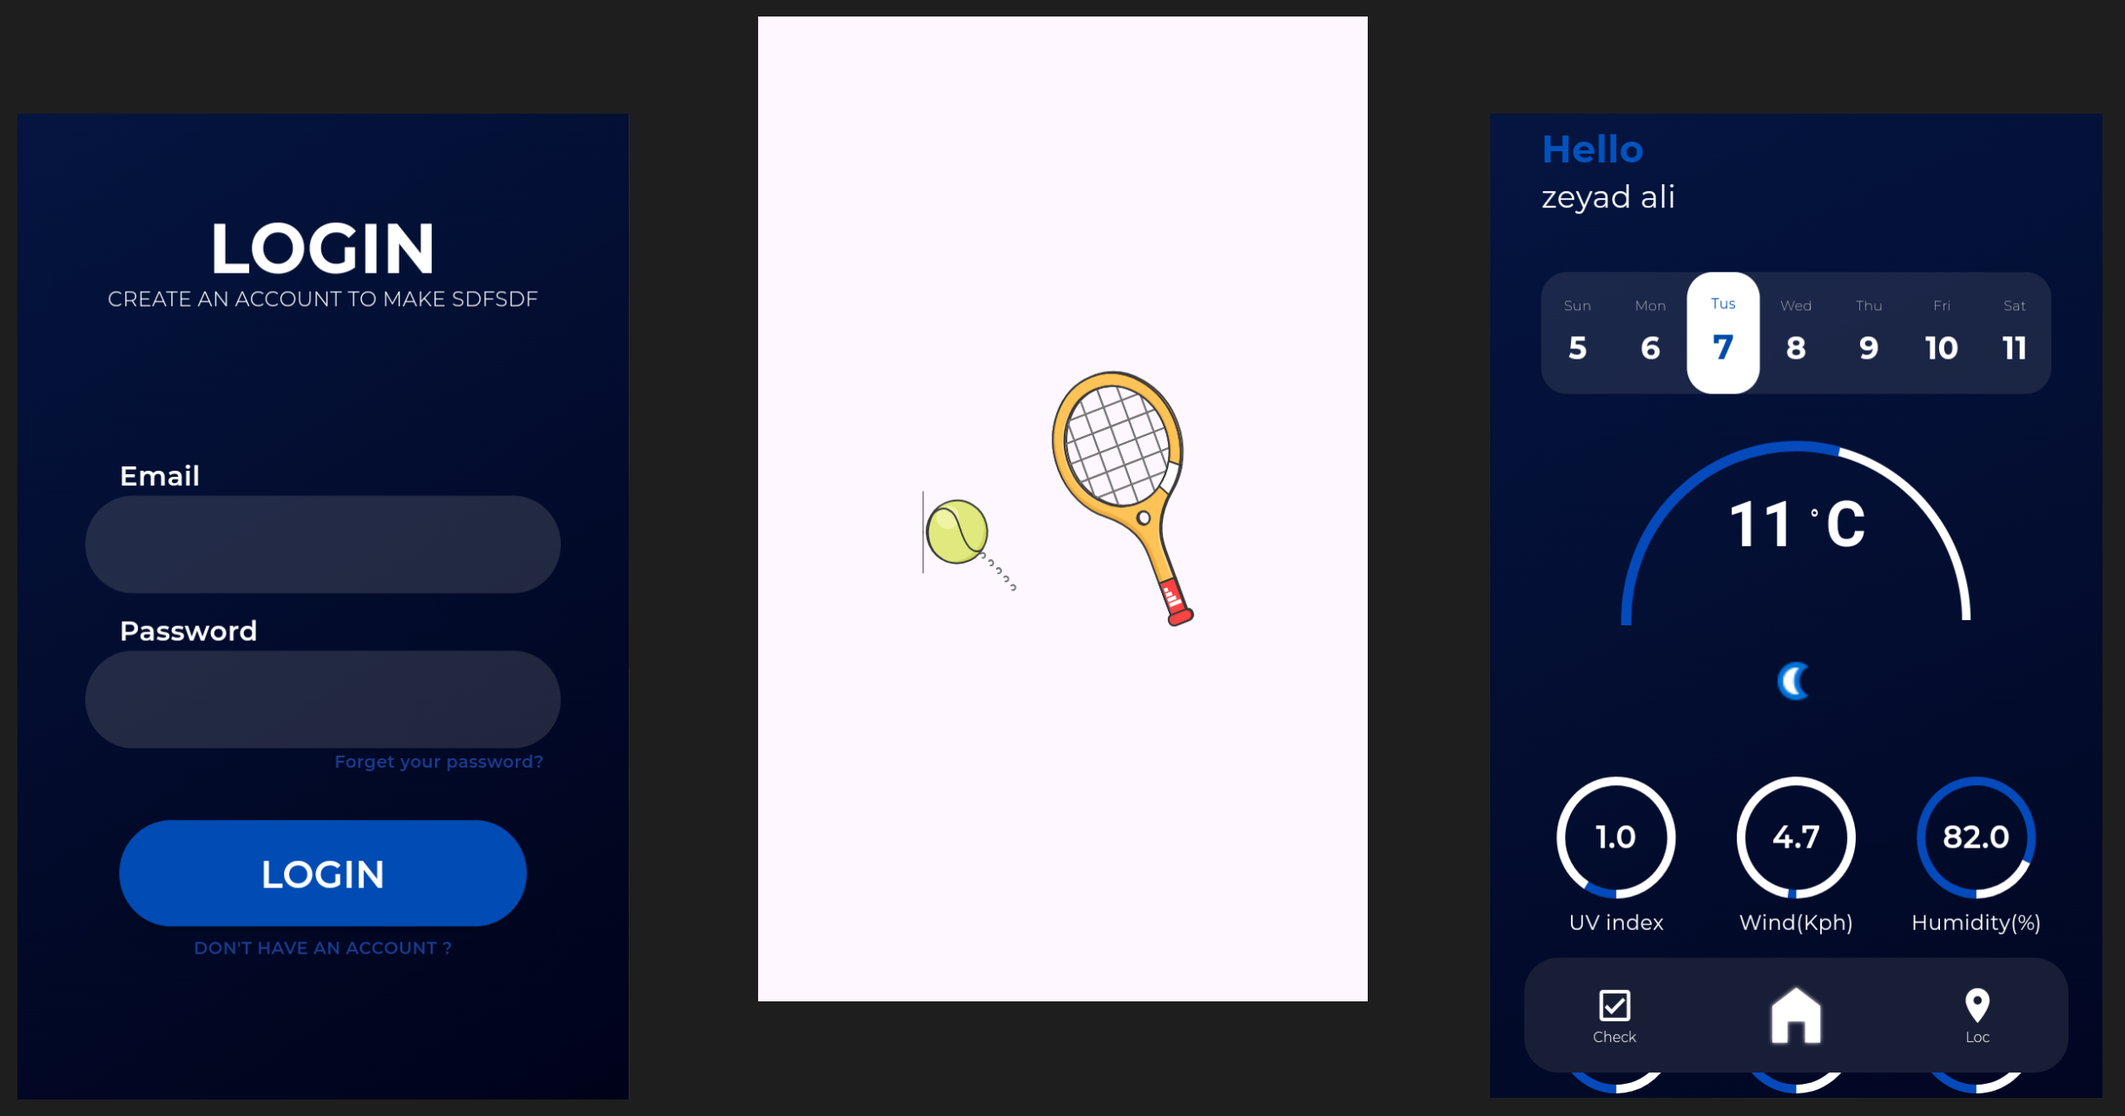
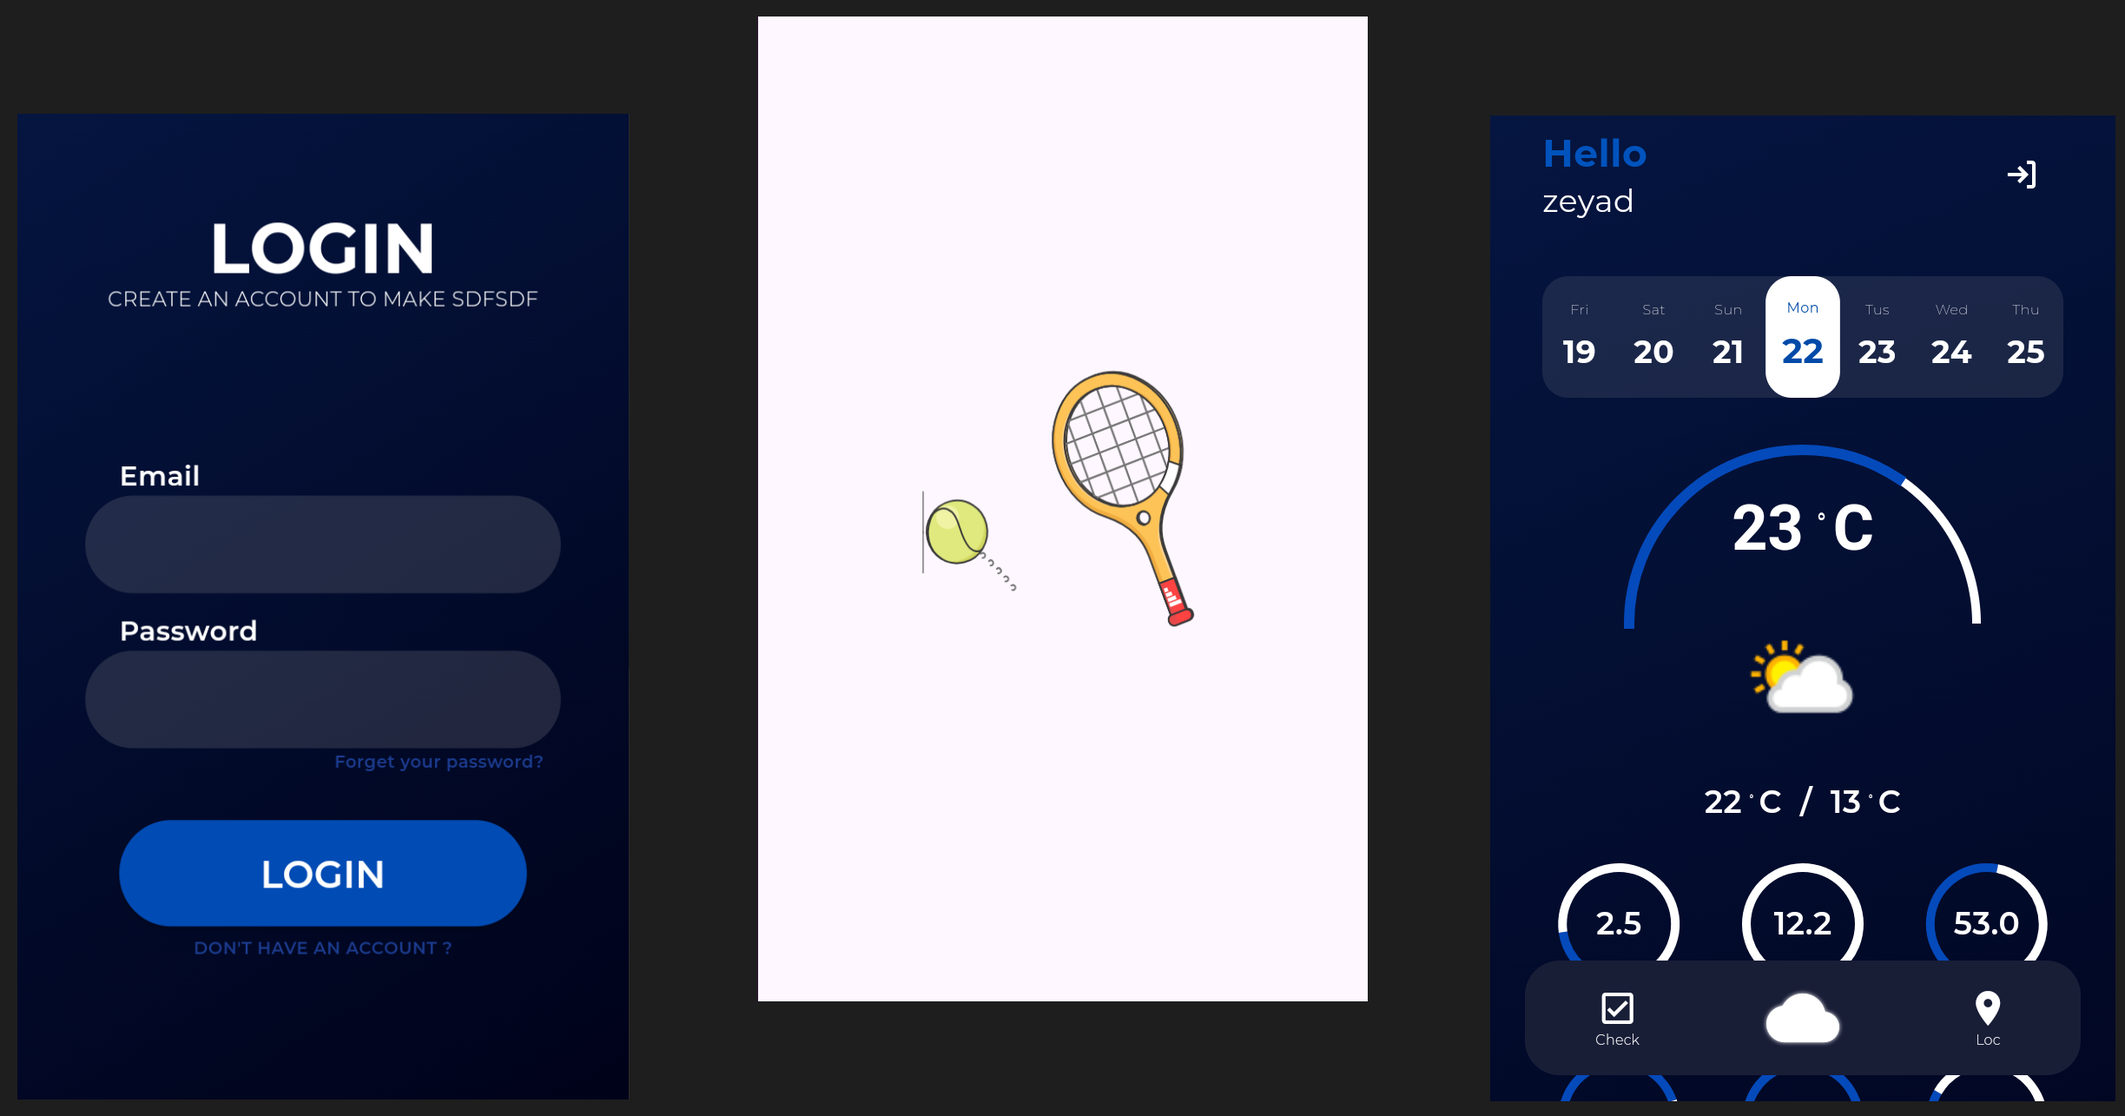
add google maps to tennis app

diff --git a/lib/utils/projects_manager.dart b/lib/utils/projects_manager.dart
@@ -8,53 +8,104 @@ import 'package:zeyad_ali_portfolio/utils/assets.dart';
 
 final class ProjectsManager {
   static Map<ToolType, ToolModel> allTools = {
-    ToolType.flutter: const ToolModel(text: 'Flutter', url: 'https://flutter.dev/'),
+    ToolType.flutter:
+        const ToolModel(text: 'Flutter', url: 'https://flutter.dev/'),
     ToolType.dart: const ToolModel(text: 'Dart', url: 'https://dart.dev/'),
-    ToolType.lottie: const ToolModel(text: 'Lottie Animations', url: 'https://lottiefiles.com/'),
+    ToolType.lottie: const ToolModel(
+        text: 'Lottie Animations', url: 'https://lottiefiles.com/'),
     ToolType.animations: const ToolModel(text: 'Animations'),
-    ToolType.cubit: const ToolModel(text: 'Cubit', url: 'https://pub.dev/packages/flutter_bloc'),
-    ToolType.bloc: const ToolModel(text: 'Bloc', url: 'https://pub.dev/packages/flutter_bloc'),
-    ToolType.getX: const ToolModel(text: 'GetX', url: 'https://pub.dev/packages/get'),
-    ToolType.provider: const ToolModel(text: 'Provider', url: 'https://pub.dev/packages/provider'),
-    ToolType.riverpod: const ToolModel(text: 'Riverpod', url: 'https://pub.dev/packages/riverpod'),
+    ToolType.cubit: const ToolModel(
+        text: 'Cubit', url: 'https://pub.dev/packages/flutter_bloc'),
+    ToolType.bloc: const ToolModel(
+        text: 'Bloc', url: 'https://pub.dev/packages/flutter_bloc'),
+    ToolType.getX:
+        const ToolModel(text: 'GetX', url: 'https://pub.dev/packages/get'),
+    ToolType.provider: const ToolModel(
+        text: 'Provider', url: 'https://pub.dev/packages/provider'),
+    ToolType.riverpod: const ToolModel(
+        text: 'Riverpod', url: 'https://pub.dev/packages/riverpod'),
     ToolType.restfulApi: const ToolModel(text: 'Restful Api'),
-    ToolType.socketIo: const ToolModel(text: 'Socket.io', url: 'https://socket.io/'),
-    ToolType.dio: const ToolModel(text: 'Dio', url: 'https://pub.dev/packages/dio'),
-    ToolType.http: const ToolModel(text: 'Http', url: 'https://pub.dev/packages/http'),
-    ToolType.postman: const ToolModel(text: 'Postman', url: 'https://www.postman.com/'),
-    ToolType.firebase: const ToolModel(text: 'Firebase', url: 'https://firebase.google.com/'),
-    ToolType.supabase: const ToolModel(text: 'Supabase', url: 'https://supabase.com/'),
-    ToolType.hive: const ToolModel(text: 'Hive', url: 'https://pub.dev/packages/hive_flutter/versions'),
-    ToolType.flutter_secure_storage: const ToolModel(text: 'Flutter Secure Storage', url: 'https://pub.dev/packages/flutter_secure_storage'),
-    ToolType.shared_preferences: const ToolModel(text: 'Shared Preferences', url: 'https://pub.dev/packages/shared_preferences'),
-    ToolType.git_github: const ToolModel(text: 'Git\\GitHub', url: 'https://github.com/'),
+    ToolType.socketIo:
+        const ToolModel(text: 'Socket.io', url: 'https://socket.io/'),
+    ToolType.dio:
+        const ToolModel(text: 'Dio', url: 'https://pub.dev/packages/dio'),
+    ToolType.http:
+        const ToolModel(text: 'Http', url: 'https://pub.dev/packages/http'),
+    ToolType.postman:
+        const ToolModel(text: 'Postman', url: 'https://www.postman.com/'),
+    ToolType.firebase:
+        const ToolModel(text: 'Firebase', url: 'https://firebase.google.com/'),
+    ToolType.supabase:
+        const ToolModel(text: 'Supabase', url: 'https://supabase.com/'),
+    ToolType.hive: const ToolModel(
+        text: 'Hive', url: 'https://pub.dev/packages/hive_flutter/versions'),
+    ToolType.flutter_secure_storage: const ToolModel(
+        text: 'Flutter Secure Storage',
+        url: 'https://pub.dev/packages/flutter_secure_storage'),
+    ToolType.shared_preferences: const ToolModel(
+        text: 'Shared Preferences',
+        url: 'https://pub.dev/packages/shared_preferences'),
+    ToolType.git_github:
+        const ToolModel(text: 'Git\\GitHub', url: 'https://github.com/'),
     ToolType.agile: const ToolModel(text: 'Agile'),
-    ToolType.trello: const ToolModel(text: 'Trello', url: 'https://trello.com/'),
-    ToolType.jira: const ToolModel(text: 'Jira', url: 'https://www.atlassian.com/software/jira'),
-    ToolType.figma: const ToolModel(text: 'Figma', url: 'https://www.figma.com/'),
+    ToolType.trello:
+        const ToolModel(text: 'Trello', url: 'https://trello.com/'),
+    ToolType.jira: const ToolModel(
+        text: 'Jira', url: 'https://www.atlassian.com/software/jira'),
+    ToolType.figma:
+        const ToolModel(text: 'Figma', url: 'https://www.figma.com/'),
     ToolType.adobe: const ToolModel(text: 'Adobe'),
     ToolType.ai_integration: const ToolModel(text: 'Ai Integration'),
-    ToolType.gemini: const ToolModel(text: 'Gemini', url: 'https://gemini.google.com/app'),
-    ToolType.chatgpt: const ToolModel(text: 'ChatGpt', url: 'https://chatgpt.com/'),
-    ToolType.deepseek: const ToolModel(text: 'DeepSeek', url: 'https://www.deepseek.com/'),
-    ToolType.stripe: const ToolModel(text: 'Stripe', url: 'https://stripe.com/'),
-    ToolType.getIt: const ToolModel(text: 'Get_It', url: 'https://pub.dev/packages/get_it'),
-    ToolType.audioplayers: const ToolModel(text: 'Audioplayers', url: 'https://pub.dev/packages/audioplayers'),
-    ToolType.avatarGlow: const ToolModel(text: 'Avatar_Glow', url: 'https://pub.dev/packages/avatar_glow'),
-    ToolType.deviceInfoPlus: const ToolModel(text: 'Device_Info_Plus', url: 'https://pub.dev/packages/device_info_plus'),
-    ToolType.filePicker: const ToolModel(text: 'File_Picker', url: 'https://pub.dev/packages/file_picker'),
-    ToolType.flutterSound: const ToolModel(text: 'Flutter_Sound', url: 'https://pub.dev/packages/flutter_sound'),
-    ToolType.fontAwesomeFlutter: const ToolModel(text: 'Font_Awesome_Flutter', url: 'https://pub.dev/packages/font_awesome_flutter'),
-    ToolType.goRouter: const ToolModel(text: 'Go_Router', url: 'https://pub.dev/packages/go_router'),
-    ToolType.googleFonts: const ToolModel(text: 'Google_Fonts', url: 'https://pub.dev/packages/google_fonts'),
-    ToolType.iconsLauncher: const ToolModel(text: 'Icons_Launcher', url: 'https://pub.dev/packages/icons_launcher'),
-    ToolType.imagePicker: const ToolModel(text: 'Image_Picker', url: 'https://pub.dev/packages/image_picker'),
-    ToolType.injectable: const ToolModel(text: 'Injectable', url: 'https://pub.dev/packages/injectable'),
-    ToolType.modalProgressHudNsn: const ToolModel(text: 'Modal_Progress_HUD_NSN', url: 'https://pub.dev/packages/modal_progress_hud_nsn'),
-    ToolType.pathProvider: const ToolModel(text: 'Path_Provider', url: 'https://pub.dev/packages/path_provider'),
-    ToolType.permissionHandler: const ToolModel(text: 'Permission_Handler', url: 'https://pub.dev/packages/permission_handler'),
-    ToolType.pinCodeFields: const ToolModel(text: 'Pin_Code_Fields', url: 'https://pub.dev/packages/pin_code_fields'),
-    ToolType.urlLauncher: const ToolModel(text: 'URL_Launcher', url: 'https://pub.dev/packages/url_launcher'),
+    ToolType.gemini:
+        const ToolModel(text: 'Gemini', url: 'https://gemini.google.com/app'),
+    ToolType.chatgpt:
+        const ToolModel(text: 'ChatGpt', url: 'https://chatgpt.com/'),
+    ToolType.deepseek:
+        const ToolModel(text: 'DeepSeek', url: 'https://www.deepseek.com/'),
+    ToolType.stripe:
+        const ToolModel(text: 'Stripe', url: 'https://stripe.com/'),
+    ToolType.getIt:
+        const ToolModel(text: 'Get It', url: 'https://pub.dev/packages/get_it'),
+    ToolType.audioplayers: const ToolModel(
+        text: 'Audioplayers', url: 'https://pub.dev/packages/audioplayers'),
+    ToolType.avatarGlow: const ToolModel(
+        text: 'Avatar Glow', url: 'https://pub.dev/packages/avatar_glow'),
+    ToolType.deviceInfoPlus: const ToolModel(
+        text: 'Device Info Plus',
+        url: 'https://pub.dev/packages/device_info_plus'),
+    ToolType.filePicker: const ToolModel(
+        text: 'File Picker', url: 'https://pub.dev/packages/file_picker'),
+    ToolType.flutterSound: const ToolModel(
+        text: 'Flutter Sound', url: 'https://pub.dev/packages/flutter_sound'),
+    ToolType.fontAwesomeFlutter: const ToolModel(
+        text: 'Font Awesome Flutter',
+        url: 'https://pub.dev/packages/font_awesome_flutter'),
+    ToolType.goRouter: const ToolModel(
+        text: 'Go Router', url: 'https://pub.dev/packages/go_router'),
+    ToolType.googleFonts: const ToolModel(
+        text: 'Google Fonts', url: 'https://pub.dev/packages/google_fonts'),
+    ToolType.iconsLauncher: const ToolModel(
+        text: 'Icons Launcher', url: 'https://pub.dev/packages/icons_launcher'),
+    ToolType.imagePicker: const ToolModel(
+        text: 'Image Picker', url: 'https://pub.dev/packages/image_picker'),
+    ToolType.injectable: const ToolModel(
+        text: 'Injectable', url: 'https://pub.dev/packages/injectable'),
+    ToolType.modalProgressHudNsn: const ToolModel(
+        text: 'Modal Progress HUD NSN',
+        url: 'https://pub.dev/packages/modal_progress_hud_nsn'),
+    ToolType.pathProvider: const ToolModel(
+        text: 'Path Provider', url: 'https://pub.dev/packages/path_provider'),
+    ToolType.permissionHandler: const ToolModel(
+        text: 'Permission Handler',
+        url: 'https://pub.dev/packages/permission_handler'),
+    ToolType.pinCodeFields: const ToolModel(
+        text: 'Pin Code Fields',
+        url: 'https://pub.dev/packages/pin_code_fields'),
+    ToolType.urlLauncher: const ToolModel(
+        text: 'URL Launcher', url: 'https://pub.dev/packages/url_launcher'),
+    ToolType.googleMaps: const ToolModel(
+        text: 'Google Maps',
+        url: 'https://pub.dev/packages/google_maps_flutter'),
     ToolType.cleanArchitecture: const ToolModel(text: 'Clean Architecture'),
     ToolType.mvvm: const ToolModel(text: 'MVVM'),
     ToolType.mvc: const ToolModel(text: 'MVC'),
@@ -129,7 +180,8 @@ final class ProjectsManager {
           ],
         ),
         githubUrl: "https://github.com/Mohamedihab29592/meal-recommendation-A2",
-        designUrl: "https://www.figma.com/design/zDyccAigoAviKiU5EsczkX/Recipes?node-id=0-1&p=f&t=D2Y6algmowYU78OL-0",
+        designUrl:
+            "https://www.figma.com/design/zDyccAigoAviKiU5EsczkX/Recipes?node-id=0-1&p=f&t=D2Y6algmowYU78OL-0",
       ),
       ProjectModel(
         title: context.tr.tennis_app_name,
@@ -142,6 +194,7 @@ final class ProjectsManager {
             ToolType.dio,
             ToolType.firebase,
             ToolType.getIt,
+            ToolType.googleMaps,
             ToolType.cleanArchitecture,
             ToolType.ai_integration,
             ToolType.git_github,
@@ -166,7 +219,8 @@ final class ProjectsManager {
           ],
         ),
         githubUrl: "https://github.com/mahmoud-hassan1/Fashion-App",
-        designUrl: "https://www.figma.com/design/eIEoyAf3TliYntkTH2gxYE/E-Commerce-App-Design-(Community)?node-id=0-1&node-type=canvas&t=jmSkhSwHQerBkkc5-0",
+        designUrl:
+            "https://www.figma.com/design/eIEoyAf3TliYntkTH2gxYE/E-Commerce-App-Design-(Community)?node-id=0-1&node-type=canvas&t=jmSkhSwHQerBkkc5-0",
       ),
       ProjectModel(
         title: context.tr.todo_app_name,
@@ -182,7 +236,8 @@ final class ProjectsManager {
             ToolType.git_github,
           ],
         ),
-        githubUrl: 'https://github.com/zeyadali06/Teknosoft-tasks/tree/main/To-Do%20List%20App',
+        githubUrl:
+            'https://github.com/zeyadali06/Teknosoft-tasks/tree/main/To-Do%20List%20App',
       ),
     ];
   }
@@ -252,6 +307,7 @@ enum ToolType {
   permissionHandler,
   pinCodeFields,
   urlLauncher,
+  googleMaps,
   cleanArchitecture,
   mvvm,
   mvc;

diff --git a/lib/utils/my_skills_manager.dart b/lib/utils/my_skills_manager.dart
@@ -4,16 +4,61 @@ import 'package:zeyad_ali_portfolio/utils/assets.dart';
 final class MySkillsManager {
   static List<MySkillsItemModel> getMySkills() {
     return const [
-      MySkillsItemModel(title: 'Flutter', path: Assets.skillsIconsFlutter, url: 'https://flutter.dev/'),
-      MySkillsItemModel(title: 'Dart', path: Assets.skillsIconsDart, url: 'https://dart.dev/'),
-      MySkillsItemModel(title: 'Bloc', path: Assets.skillsIconsBloc, url: 'https://pub.dev/packages/flutter_bloc'),
-      MySkillsItemModel(title: 'Socket.io', path: Assets.skillsIconsSocketIo, url: 'https://socket.io/'),
-      MySkillsItemModel(title: 'Postman', path: Assets.skillsIconsPostman, url: 'https://www.postman.com/'),
-      MySkillsItemModel(title: 'Firebase', path: Assets.skillsIconsFirebase, url: 'https://firebase.google.com/'),
-      MySkillsItemModel(title: 'Git', path: Assets.skillsIconsGit, url: 'https://git-scm.com/'),
-      MySkillsItemModel(title: 'GitHub', path: Assets.skillsIconsGitHub, url: 'https://github.com/'),
-      MySkillsItemModel(title: 'Jira', path: Assets.skillsIconsJira, url: 'https://www.atlassian.com/software/jira'),
-      MySkillsItemModel(title: 'Trello', path: Assets.skillsIconsTrello, url: 'https://trello.com/'),
+      MySkillsItemModel(
+        title: 'Flutter',
+        path: Assets.skillsIconsFlutter,
+        url: 'https://flutter.dev/',
+      ),
+      MySkillsItemModel(
+        title: 'Dart',
+        path: Assets.skillsIconsDart,
+        url: 'https://dart.dev/',
+      ),
+      MySkillsItemModel(
+        title: 'Bloc',
+        path: Assets.skillsIconsBloc,
+        url: 'https://pub.dev/packages/flutter_bloc',
+      ),
+      MySkillsItemModel(
+        title: 'Socket.io',
+        path: Assets.skillsIconsSocketIo,
+        url: 'https://socket.io/',
+      ),
+      MySkillsItemModel(
+        title: 'Postman',
+        path: Assets.skillsIconsPostman,
+        url: 'https://www.postman.com/',
+      ),
+      MySkillsItemModel(
+        title: 'Firebase',
+        path: Assets.skillsIconsFirebase,
+        url: 'https://firebase.google.com/',
+      ),
+      MySkillsItemModel(
+        title: 'Git',
+        path: Assets.skillsIconsGit,
+        url: 'https://git-scm.com/',
+      ),
+      MySkillsItemModel(
+        title: 'GitHub',
+        path: Assets.skillsIconsGitHub,
+        url: 'https://github.com/',
+      ),
+      MySkillsItemModel(
+        title: 'Jira',
+        path: Assets.skillsIconsJira,
+        url: 'https://www.atlassian.com/software/jira',
+      ),
+      MySkillsItemModel(
+        title: 'Trello',
+        path: Assets.skillsIconsTrello,
+        url: 'https://trello.com/',
+      ),
+      MySkillsItemModel(
+        title: 'Google Maps',
+        path: Assets.skillsIconsGoogleMaps,
+        url: 'https://www.google.com/maps',
+      ),
     ];
   }
 }

diff --git a/lib/localization/translation_files/app_localizations_ar.dart b/lib/localization/translation_files/app_localizations_ar.dart
@@ -90,7 +90,7 @@ class AppLocalizationsAr extends AppLocalizations {
 
   @override
   String get tennis_app_description =>
-      'يساعد تطبيق التنس اللاعبين على تخطيط جلسات التدريب بناءً على حالة الطقس. تم تطويره باستخدام Flutter، ويدعم إدارة المواقع وتسجيل الدخول، ويعتمد على معمارية MVVM. كما يدمج AI Model للتنبؤ بأفضل أوقات التدريب اعتمادًا على بيانات الطقس.';
+      'طورت تطبيقًا لمساعدة لاعبي التنس باستخدام Flutter، يجمع بين توقعات الطقس وخرائط Google وتقنيات التعلم الآلي لمساعدة اللاعبين على تحديد أفضل أوقات التدريب. قمت بتنفيذ نظام المصادقة، وإدارة المواقع، والخرائط التفاعلية، مع الاعتماد على بنية MVVM القابلة للتوسع. كما تم دمج نموذج ذكاء اصطناعي مخصص لتحليل بيانات الطقس وتقديم توصيات تدريبية مخصصة تساعد اللاعبين على اتخاذ قرارات أفضل بشأن مواعيد التدريب.';
 
   @override
   String get fashion_app_name => 'Fashion';

diff --git a/lib/localization/translation_files/app_localizations.dart b/lib/localization/translation_files/app_localizations.dart
@@ -245,7 +245,7 @@ abstract class AppLocalizations {
   /// No description provided for @tennis_app_description.
   ///
   /// In en, this message translates to:
-  /// **'The Tennis App helps players plan training sessions using weather forecasts. Built with Flutter, it supports location management, authentication, and a clean MVVM architecture. It integrates a machine learning model to predict optimal training times based on weather data.'**
+  /// **'Developed a Flutter-based Tennis Training Assistant that combines weather forecasting, Google Maps integration, and machine learning to help players identify optimal training times. Implemented authentication, location management, interactive maps, and a scalable MVVM architecture. Integrated a custom AI model to analyze weather data and provide personalized training recommendations.'**
   String get tennis_app_description;
 
   /// No description provided for @fashion_app_name.

diff --git a/lib/utils/assets.dart b/lib/utils/assets.dart
@@ -1,7 +1,7 @@
 // ignore_for_file: prefer_single_quotes
 class Assets {
   Assets._();
-
+  
   /// Assets for animationsComputerAnimation1
   /// assets/animations/ComputerAnimation1.json
   static const String animationsComputerAnimation1 = "assets/animations/ComputerAnimation1.json";
@@ -78,6 +78,10 @@ class Assets {
   /// assets/skillsIcons/GitHub.png
   static const String skillsIconsGitHub = "assets/skillsIcons/GitHub.png";
 
+  /// Assets for skillsIconsGoogle Maps
+  /// assets/skillsIcons/Google Maps.png
+  static const String skillsIconsGoogleMaps = "assets/skillsIcons/Google Maps.png";
+
   /// Assets for skillsIconsJava
   /// assets/skillsIcons/Java.png
   static const String skillsIconsJava = "assets/skillsIcons/Java.png";
@@ -102,3 +106,4 @@ class Assets {
   /// assets/skillsIcons/Trello.png
   static const String skillsIconsTrello = "assets/skillsIcons/Trello.png";
 }
+

diff --git a/lib/localization/translation_files/app_localizations_en.dart b/lib/localization/translation_files/app_localizations_en.dart
@@ -90,7 +90,7 @@ class AppLocalizationsEn extends AppLocalizations {
 
   @override
   String get tennis_app_description =>
-      'The Tennis App helps players plan training sessions using weather forecasts. Built with Flutter, it supports location management, authentication, and a clean MVVM architecture. It integrates a machine learning model to predict optimal training times based on weather data.';
+      'Developed a Flutter-based Tennis Training Assistant that combines weather forecasting, Google Maps integration, and machine learning to help players identify optimal training times. Implemented authentication, location management, interactive maps, and a scalable MVVM architecture. Integrated a custom AI model to analyze weather data and provide personalized training recommendations.';
 
   @override
   String get fashion_app_name => 'Fashion';

diff --git a/lib/utils/constants.dart b/lib/utils/constants.dart
@@ -1,7 +1,7 @@
 import 'dart:ui';
 
 final class Constants {
-  static const String cvLink = "https://drive.google.com/file/d/1Qfuqfv62nRu_JomYbyhHt72DuklVerGD/view?usp=sharing";
+  static const String cvLink = "https://drive.google.com/file/d/1MU6sgU6IRMKPRu0ioCDNtCvu9i2MNBC9/view?usp=drive_link";
   static const double kDesktopHorizontalPadding = 80;
   static const double kDesktopVerticalPadding = 50;
   static const double kTabletHorizontalPadding = 40;
